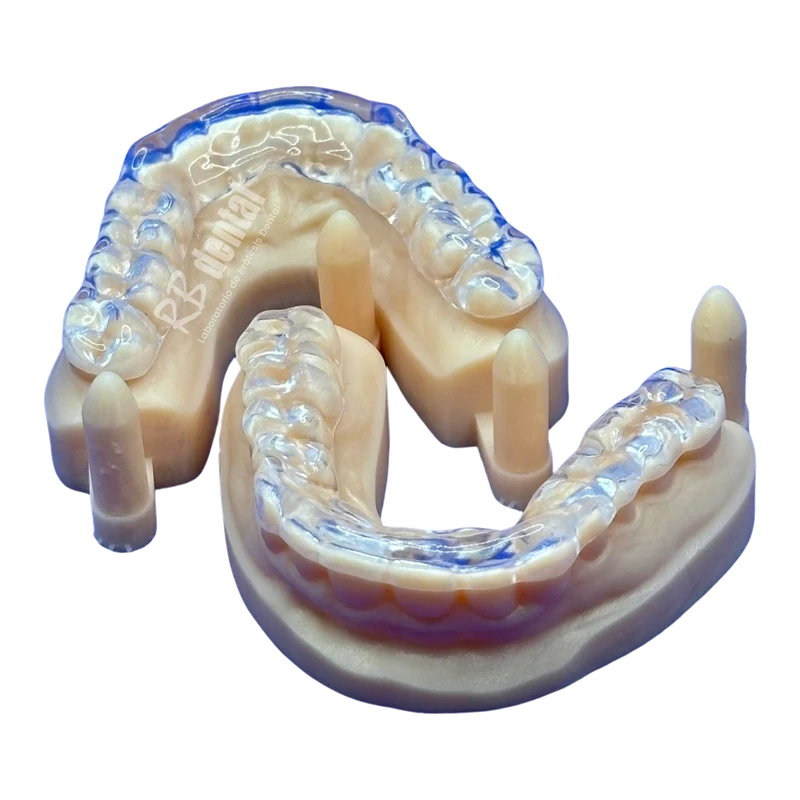
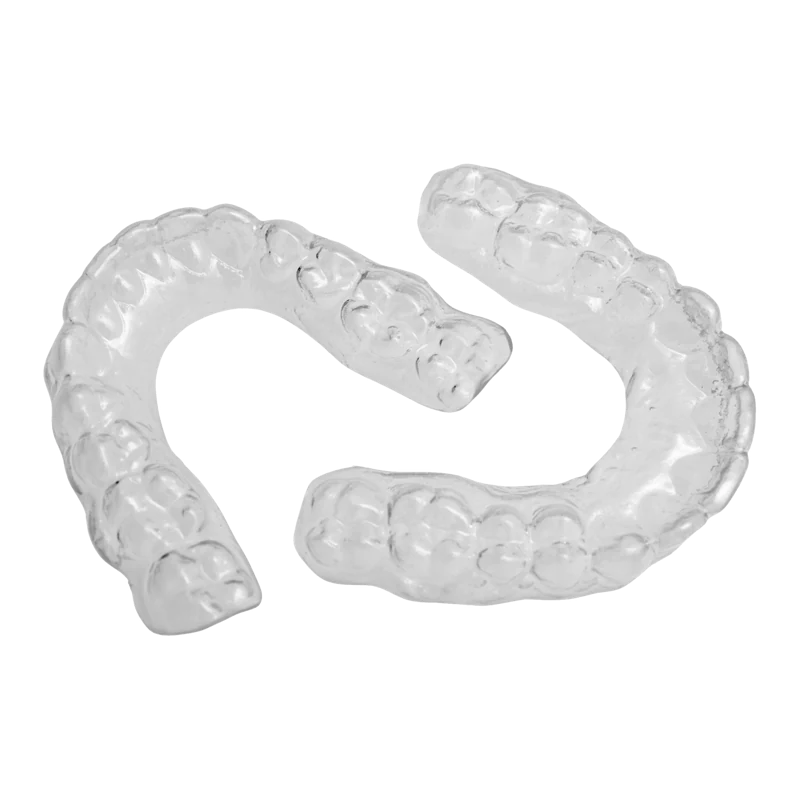
Portada: placa azul en Ortodoncia y retenedor Essix en Ferulas
Claude-Session: https://claude.ai/code/session_01G9ySE2q82eBR5v7f2bLYwG

diff --git a/corporativa/index.html b/corporativa/index.html
@@ -145,8 +145,8 @@
     <a class="sc" style="text-decoration:none" href="trabajos/carga-inmediata.html"><span class="im"><img src="img/card-carga.webp" alt="F&eacute;rula quir&uacute;rgica para carga inmediata"></span><b>Carga inmediata<u>Qu&eacute; es y ventajas &rarr;</u></b></a>
     <a class="sc" style="text-decoration:none" href="trabajos/removible.html"><span class="im"><img src="img/card-removible.webp" alt="Sobredentadura completa superior e inferior"></span><b>Pr&oacute;tesis removibles<u>Qu&eacute; es y ventajas &rarr;</u></b></a>
     <a class="sc" style="text-decoration:none" href="trabajos/diseno-de-sonrisa.html"><span class="im"><img src="img/card-sonrisa.webp" alt="Dise&ntilde;o digital de sonrisa" style="border-radius:8px"></span><b>Dise&ntilde;o de sonrisa<u>Qu&eacute; es y ventajas &rarr;</u></b></a>
-    <a class="sc" style="text-decoration:none" href="trabajos/ortodoncia.html"><span class="im"><img src="img/card-ortodoncia.webp" alt="Placa de expansi&oacute;n de ortodoncia"></span><b>Ortodoncia<u>Qu&eacute; es y ventajas &rarr;</u></b></a>
-    <a class="sc" style="text-decoration:none" href="trabajos/ferulas.html"><span class="im"><img src="img/card-ferulas.webp" alt="F&eacute;rulas de descarga sobre modelo"></span><b>F&eacute;rulas<u>Qu&eacute; es y ventajas &rarr;</u></b></a>
+    <a class="sc" style="text-decoration:none" href="trabajos/ortodoncia.html"><span class="im"><img src="img/card-ortodoncia.webp" alt="Placa de expansi&oacute;n de ortodoncia en azul"></span><b>Ortodoncia<u>Qu&eacute; es y ventajas &rarr;</u></b></a>
+    <a class="sc" style="text-decoration:none" href="trabajos/ferulas.html"><span class="im"><img src="img/card-ferulas.webp" alt="Retenedor Essix transparente"></span><b>F&eacute;rulas<u>Qu&eacute; es y ventajas &rarr;</u></b></a>
     <a class="sc" style="text-decoration:none;display:flex;flex-direction:column;align-items:center;justify-content:center;background:rgba(255,255,255,.06);border:1.5px solid rgba(201,168,76,.5);box-shadow:none" href="https://wa.me/34680555303?text=Hola,%20quiero%20recibir%20las%20tarifas%202026%20del%20laboratorio" target="_blank" rel="noopener"><b style="color:#fff;padding:0 14px 10px;font-family:'Montserrat',sans-serif;font-size:1.6rem;line-height:1.2;text-align:center">&iquest;Buscas precios?</b><span style="color:var(--gold2);font-family:'Montserrat',sans-serif;font-weight:700;font-size:1.1rem;text-align:center;padding:0 14px">Te la enviamos por WhatsApp &rarr;</span></a>
   </div>
 </div></section>
